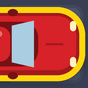
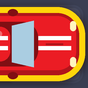
Add star ratings, stop skipped levels counting as solved, make red car stand out

diff --git a/display.py b/display.py
@@ -36,6 +36,22 @@ ARROWS = {
 }
 DIRECTION_NAMES = {(HORIZONTAL, -1): "left", (HORIZONTAL, +1): "right",
                    (VERTICAL, -1): "up", (VERTICAL, +1): "down"}
+MAX_STARS = 3
+
+
+def stars_for(hints):
+    """Stars for a solved level: no hints 3, 1-3 hints 2, 4 or more 1."""
+    if hints == 0:
+        return 3
+    if hints <= 3:
+        return 2
+    return 1
+
+
+def star_text(n):
+    return "★" * n + "☆" * (MAX_STARS - n)
+
+
 CONTROLS = ("Drag cars with the mouse, or click one and use the arrow keys\n"
             "H hint · U undo · R restart · N next · Q quit")
 
@@ -58,7 +74,9 @@ class Game:
         self.start_message = start_message
         self.index = 0
         self.finished = False               # True on the end screen
-        self.total_moves = 0                # summed over solved levels
+        self.solved = {}                    # level index -> fewest moves used
+        self.stars = {}                     # level index -> best stars earned
+        self.hints = {}                     # level index -> hints used on it
         self.drag = None                    # (letter, grab offset) while dragging
         self._build_extras()
 
@@ -142,10 +160,15 @@ class Game:
             self.won = True
             self.selected = None
             self.drag = None
-            self.total_moves += self.moves
+            best = self.solved.get(self.index)
+            self.solved[self.index] = self.moves if best is None else min(best, self.moves)
+            hints = self.hints.get(self.index, 0)
+            earned = stars_for(hints)
+            self.stars[self.index] = max(earned, self.stars.get(self.index, 0))
             last = self.index == len(self.levels) - 1
-            verdict = "Perfect! " if self.moves == self.par else ""
-            self.message = (f"Solved in {self.moves} moves (par {self.par}). {verdict}"
+            used = "no hints" if hints == 0 else f"{hints} hint{'s' if hints > 1 else ''}"
+            self.message = (f"{star_text(earned)}  Solved in {self.moves} moves "
+                            f"(par {self.par}) with {used}. "
                             f"Press Next {'to finish' if last else 'level'}.")
 
     # ----------------------------------------------------------------- mouse
@@ -241,6 +264,7 @@ class Game:
             self.message = "No solution from here - try Undo or Restart"
         else:
             letter, step = solution[0]
+            self.hints[self.index] = self.hints.get(self.index, 0) + 1
             direction = DIRECTION_NAMES[(self.cars[letter].orient, step)]
             self.selected = letter
             self.do_move((letter, step))
@@ -260,21 +284,32 @@ class Game:
             self.message = "Undone."
         self.draw()
 
+    def play_again(self):
+        self.solved = {}
+        self.stars = {}
+        self.hints = {}
+        self.load(0)
+
     def press_restart(self):
         if self.finished:
-            self.total_moves = 0
-            self.load(0)
+            self.play_again()
             return
         self.load(self.index)
         self.message = "Restarted."
         self.draw()
 
     def press_next(self):
+        """Go on to the next level. Leaving an unsolved level skips it:
+        it is not counted as solved."""
         if self.finished:
-            self.total_moves = 0
-            self.load(0)
-        elif self.index + 1 < len(self.levels):
+            self.play_again()
+            return
+        skipped = self.index not in self.solved
+        if self.index + 1 < len(self.levels):
             self.load(self.index + 1)
+            if skipped:
+                self.message = f"Level {self.index} skipped (not solved). " + self.message
+                self.draw()
         else:
             self.end_screen()
 
@@ -282,19 +317,36 @@ class Game:
     def end_screen(self):
         self.finished = True
         self.drag = None
-        total_par = sum(lv["par"] for lv in self.levels)
+        total = len(self.levels)
+        moves = sum(self.solved.values())
+        par = sum(self.levels[i]["par"] for i in self.solved)
+        skipped = [str(i + 1) for i in range(total) if i not in self.solved]
         self.board.fill("slot")
-        for c in range(SIZE):
-            self.board[1][c] = "★"
-            self.board[4][c] = "★"
-        for c, word in enumerate(["ALL", "LEVELS", "DONE"], start=1):
-            self.board[2][c] = word
-        self.board[3][2] = "WELL"
-        self.board[3][3] = "PLAYED"
-        self.board.print(
-            f"All {len(self.levels)} levels complete!  Moves on solved levels: "
-            f"{self.total_moves}  (par total {total_par})\n"
-            f"Press Next level to play again, or Q to quit.")
+        if not skipped:
+            for c in range(SIZE):
+                self.board[1][c] = "★"
+                self.board[4][c] = "★"
+            for c, word in enumerate(["ALL", "LEVELS", "DONE"], start=1):
+                self.board[2][c] = word
+            self.board[3][2] = "WELL"
+            self.board[3][3] = "PLAYED"
+            summary = f"All {total} levels solved!"
+        else:
+            self.board[2][2] = "THE"
+            self.board[2][3] = "END"
+            self.board[3][1] = f"{len(self.solved)} of {total}"
+            self.board[3][2] = "LEVELS"
+            self.board[3][3] = "SOLVED"
+            summary = (f"Solved {len(self.solved)} of {total} levels. "
+                       f"Skipped: level{'s' if len(skipped) > 1 else ''} {', '.join(skipped)}.")
+        earned = sum(self.stars.values())
+        summary += f"  Stars {earned}/{MAX_STARS * total}."
+        if self.solved:
+            summary += f"  Moves {moves} (par {par})."
+        per_level = "   ".join(f"{i + 1} {star_text(self.stars.get(i, 0))}"
+                               for i in range(total))
+        self.board.print(f"{summary}\n{per_level}\n"
+                         f"Press Next level to play again, or Q to quit.")
 
     def draw(self):
         if self.finished:
@@ -318,7 +370,10 @@ class Game:
                 self.board[r][c] = value
         level = self.levels[self.index]
         status = (f"Level {self.index + 1} of {len(self.levels)}  ·  {level['name']}"
-                  f"      Moves {self.moves}   ·   Par {self.par}")
+                  f"      Moves {self.moves}   ·   Par {self.par}"
+                  f"   ·   Hints {self.hints.get(self.index, 0)}"
+                  f"\nSolved {len(self.solved)}/{len(self.levels)}   ·   "
+                  f"Stars {sum(self.stars.values())}/{MAX_STARS * len(self.levels)}")
         if self.won:
             status += "   ✔"
         self.board.print(f"{status}\n{self.message or ' '}\n{CONTROLS}")

diff --git a/tools/make_images.py b/tools/make_images.py
@@ -28,7 +28,7 @@ SELECT = (255, 214, 10)
 
 # must match CAR_COLOURS in display.py ("red" is the red car only)
 COLOURS = {
-    "red": (214, 34, 40),
+    "red": (235, 28, 36),
     "blue": (52, 110, 220),
     "teal": (28, 160, 160),
     "green": (70, 170, 75),
@@ -57,8 +57,12 @@ def slot_tile(d, x, y):
                         fill=SLOT, outline=SLOT_EDGE, width=3 * S)
 
 
-def draw_vehicle(length, rgb, selected):
-    """A vehicle facing right, as a (length*CELL x CELL) RGBA image."""
+def draw_vehicle(length, rgb, selected, hero=False):
+    """A vehicle facing right, as a (length*CELL x CELL) RGBA image.
+
+    hero=True is the red car: it gets a warm glow and white racing stripes
+    so it stands out from every other car.
+    """
     W, H = length * CELL * S, CELL * S
     img = Image.new("RGBA", (W, H))
     d = ImageDraw.Draw(img)
@@ -75,6 +79,13 @@ def draw_vehicle(length, rgb, selected):
     ImageDraw.Draw(sh).rounded_rectangle([x0 + 3 * S, y0 + 5 * S, x1 + 3 * S, y1 + 5 * S],
                                          radius=body_r, fill=(0, 0, 0, 110))
     img.alpha_composite(sh.filter(ImageFilter.GaussianBlur(5 * S)))
+    if hero:
+        glow = Image.new("RGBA", (W, H))
+        ImageDraw.Draw(glow).rounded_rectangle([x0 - 2 * S, y0 - 2 * S, x1 + 2 * S, y1 + 2 * S],
+                                               radius=body_r, fill=(255, 120, 60, 235))
+        glow = glow.filter(ImageFilter.GaussianBlur(5 * S))
+        img.alpha_composite(glow)
+        img.alpha_composite(glow)
     d = ImageDraw.Draw(img)
 
     # tyres poking out at the sides
@@ -96,6 +107,14 @@ def draw_vehicle(length, rgb, selected):
     d.rounded_rectangle([x0 + 3 * S, y0 + 3 * S, x1 - 3 * S, y1 - 5 * S],
                         radius=body_r - 3 * S, fill=rgb)
     hh = (y1 - y0)
+    mid = y0 + 0.5 * hh - 1 * S
+
+    def stripes(xa, xb):
+        if hero:
+            for off in (-7 * S, 3 * S):
+                d.rectangle([xa, mid + off, xb, mid + off + 4 * S], fill=(255, 255, 255))
+
+    stripes(x0 + 6 * S, x1 - 8 * S)
     if length == 2:
         # car: bonnet at the front (right), cabin in the middle, boot at back
         cx0, cx1 = x0 + 0.30 * (x1 - x0), x0 + 0.74 * (x1 - x0)
@@ -111,6 +130,7 @@ def draw_vehicle(length, rgb, selected):
                             radius=10 * S, fill=rgb)
         d.rounded_rectangle([cx0 + 20 * S, cy0 + 9 * S, cx1 - 36 * S, cy0 + 15 * S],
                             radius=4 * S, fill=light)
+        stripes(cx0 + 17 * S, cx1 - 30 * S)
         # bonnet crease and mirrors
         d.line([(cx1 + 8 * S, y0 + 0.5 * hh), (x1 - 16 * S, y0 + 0.5 * hh)],
                fill=dark, width=2 * S)
@@ -161,7 +181,7 @@ def main():
     for name, rgb in COLOURS.items():
         for length in (2, 3):
             for selected in (False, True):
-                car = draw_vehicle(length, rgb, selected)
+                car = draw_vehicle(length, rgb, selected, hero=(name == "red"))
                 save_slices(car, name, "h", length, selected)
                 if name != "red":       # the red car always lies across
                     # facing right -> rotate to face down

diff --git a/README.md b/README.md
@@ -41,6 +41,24 @@ The status bar shows the level, moves made, par, and messages such as
 * Par is the fewest possible moves, as found by the solver. Every one-cell
   slide counts as one move.
 
+## Stars and skipping
+
+Each solved level earns stars for how much help you needed:
+
+| Hints used on the level | Stars |
+|---|---|
+| none | ★★★ |
+| 1 to 3 | ★★☆ |
+| 4 or more | ★☆☆ |
+| level skipped (Next pressed before solving) | ☆☆☆ |
+
+Hints count for the whole level, including across restarts: once you have
+seen a hint, restarting does not wipe it. If you solve a level twice, the
+better result is kept. The status bar shows the hints used on this level,
+how many levels are solved and the stars so far (out of 3 per level); the
+end screen shows the stars for every level and lists any skipped ones.
+Skipped levels never count as solved.
+
 ## Files
 
 | File | Holds |
@@ -59,7 +77,7 @@ game2dboard shows one value per cell, and looks for `img/<value>.png`.
 Each car is drawn once as a whole top-down picture (cars are 2 cells,
 trucks 3; facing right when horizontal, down when vertical) and cut into
 one slice per cell, so `display.draw` just writes the right slice name into
-each cell. The red car is always red; the other cars get colours in order.
+each cell. The red car is always red, with white racing stripes and a glow so it stands out; the other cars get colours in order.
 
 game2dboard only reports mouse presses and key presses, so mouse dragging
 and the button row are attached to the Tk window it creates
